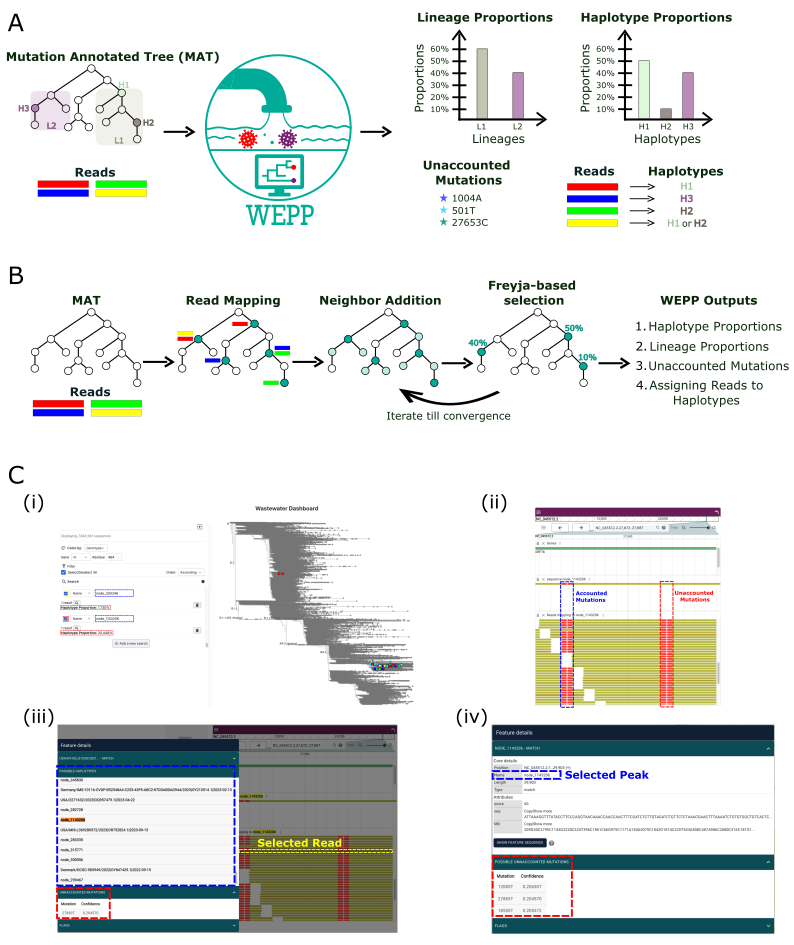
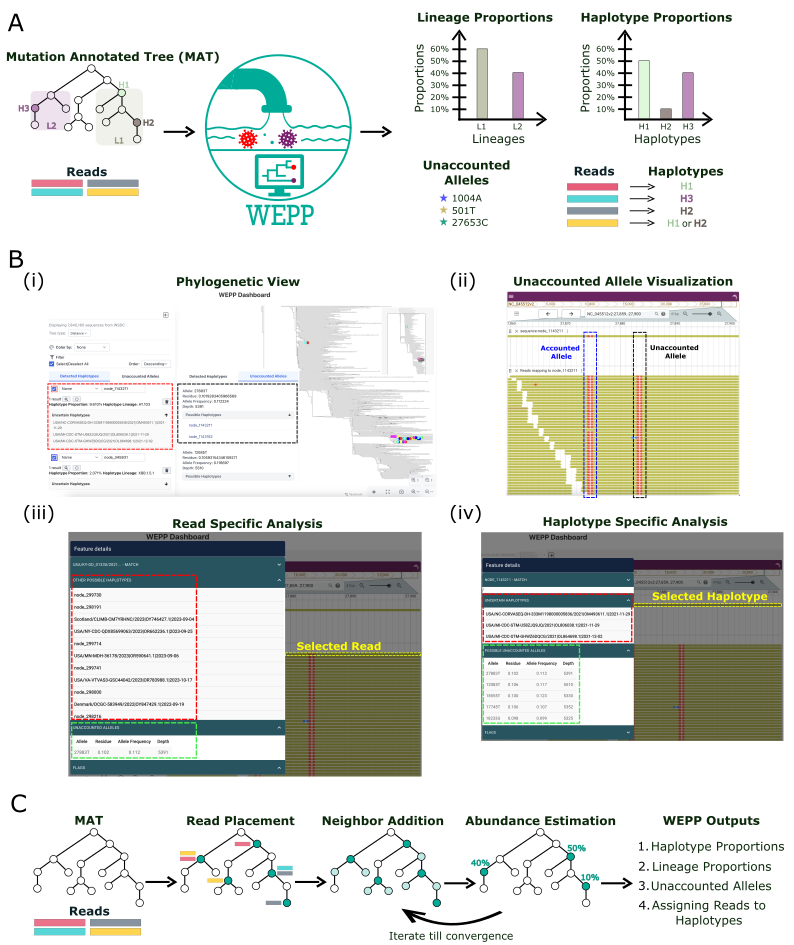
Updated Overview Image

diff --git a/docs/index.md b/docs/index.md
@@ -5,9 +5,9 @@
 
 ## <b>Introduction</b> 
 ### <b>Overview</b><a name="overview"></a>
-WEPP (**W**astewater-Based **E**pidemiology using **P**hylogenetic **P**lacements) is a phylogeny-based pipeline that estimates haplotype proportions from wastewater sequencing reads using a mutation-annotated tree (MAT) (Figure 1A). By improving the resolution of pathogen variant detection, WEPP enables critical epidemiological applications previously feasible only through clinical sequencing. It also flags potential novel variants via unaccounted mutations, which can be examined at the read level using the interactive dashboard (Figure 1C).
+WEPP (**W**astewater-Based **E**pidemiology using **P**hylogenetic **P**lacements) is a phylogeny-based pipeline that estimates haplotype proportions from wastewater sequencing reads using a mutation-annotated tree (MAT) (Figure 1A). By improving the resolution of pathogen variant detection, WEPP enables critical epidemiological applications previously feasible only through clinical sequencing. It also flags potential novel variants via *Unaccounted Mutations*, which can be examined at the read level using the interactive dashboard (Figure 1B).
 
-WEPP begins by placing reads on the mutation-annotated tree (MAT) and identifying an initial set of candidate haplotypes. It expands this set by including neighbors around each selected haplotype to form a candidate pool, which is passed to a deconvolution algorithm to estimate haplotype abundances. Haplotypes above a frequency threshold are retained, and their neighbors are again added to form a new pool. This process is repeated iteratively until the haplotype set stabilizes or the maximum number of iterations is reached (Figure 1B).
+WEPP begins by placing reads on the mutation-annotated tree (MAT) and identifying an initial set of candidate haplotypes. It expands this set by including neighbors around each selected haplotype to form a candidate pool, which is passed to a deconvolution algorithm to estimate haplotype abundances. Haplotypes above a frequency threshold are retained, and their neighbors are again added to form a new candidate pool. This process is repeated iteratively until the haplotype set stabilizes or the maximum number of iterations is reached (Figure 1C).
 
 
 <div align="center">
@@ -18,16 +18,16 @@ WEPP begins by placing reads on the mutation-annotated tree (MAT) and identifyin
 ### <b>Key Features</b>
 
 #### <b>Haplotype Proportion Estimation</b>  
-WEPP's *Phylogenetic Placement* of reads enables accurate estimation of haplotype proportions from wastewater samples. These estimates can be interactively explored using the integrated dashboard (Figure 1C(i)), which displays each haplotype’s abundance, associated lineage, and phylogenetic uncertainty via ***Uncertain Nodes*** - neighboring nodes that cannot be confidently disambiguated.
+WEPP's *Phylogenetic Placement* of reads enables accurate estimation of haplotype proportions from wastewater samples. These estimates can be interactively explored using the integrated dashboard (Figure 1B(i)), which displays each haplotype’s abundance, associated lineage, and phylogenetic uncertainty via *Uncertain Haplotypes* - neighboring haplotypes that cannot be confidently disambiguated.
 
 #### <b>Lineage Proportion Estimation</b>  
 WEPP infers lineage proportions by combining abundances of haplotypes belonging to each lineage. This approach accounts for intra-lineage diversity, resulting in more accurate and robust estimates.
 
 #### <b>Unccounted Alleles </b>
-WEPP reports a list of ***Unaccounted Alleles*** - alleles observed in wastewater that are not explained by the selected haplotypes, along with the inferred haplotype(s) they are most likely associated with (Figure 1C(ii)). These *Unaccounted Alleles* can serve as early indicators of novel variants and often resemble the 'cryptic' mutations described in previous studies.
+WEPP reports a list of *Unaccounted Alleles* - alleles observed in wastewater that are not explained by the selected haplotypes, along with the inferred haplotype(s) they are most likely associated with (Figure 1B(i)). These *Unaccounted Alleles* can serve as early indicators of novel variants and often resemble the 'cryptic' mutations described in previous studies.
 
 #### <b>Read-Level Analysis </b>
-WEPP supports detailed analysis of sequencing reads in the context of selected haplotypes (Figure 1C(iii)). It also facilitates interpretation of *Unaccounted Alleles* by examining their presence in reads relative to the haplotypes they are mapped to. Additional information about individual reads or haplotypes can be accessed by selecting them within the interactive panel (Figure 1C(iv)).
+WEPP supports detailed analysis of sequencing reads in the context of selected haplotypes (Figure 1B(ii)). It also facilitates interpretation of *Unaccounted Alleles* by examining their presence in reads relative to the haplotypes they are mapped to. Additional information about individual reads or haplotypes can be accessed by selecting them within the interactive panel (Figure 1B(iii) and Figure 1B(iv)).
  
 
 ## <b>Installation</b> <a name="install"></a>

diff --git a/README.md b/README.md
@@ -34,9 +34,9 @@
 
 ## <a name="intro"></a> Introduction
 
-WEPP (**W**astewater-Based **E**pidemiology using **P**hylogenetic **P**lacements) is a phylogeny-based pipeline that estimates haplotype proportions from wastewater sequencing reads using a mutation-annotated tree (MAT) (Figure 1A). By improving the resolution of pathogen variant detection, WEPP enables critical epidemiological applications previously feasible only through clinical sequencing. It also flags potential novel variants via unaccounted mutations, which can be examined at the read level using the interactive dashboard (Figure 1C).
+WEPP (**W**astewater-Based **E**pidemiology using **P**hylogenetic **P**lacements) is a phylogeny-based pipeline that estimates haplotype proportions from wastewater sequencing reads using a mutation-annotated tree (MAT) (Figure 1A). By improving the resolution of pathogen variant detection, WEPP enables critical epidemiological applications previously feasible only through clinical sequencing. It also flags potential novel variants via *Unaccounted Mutations*, which can be examined at the read level using the interactive dashboard (Figure 1B).
 
-WEPP begins by placing reads on the mutation-annotated tree (MAT) and identifying an initial set of candidate haplotypes. It expands this set by including neighbors around each selected haplotype to form a candidate pool, which is passed to a deconvolution algorithm to estimate haplotype abundances. Haplotypes above a frequency threshold are retained, and their neighbors are again added to form a new pool. This process is repeated iteratively until the haplotype set stabilizes or the maximum number of iterations is reached (Figure 1B).
+WEPP begins by placing reads on the mutation-annotated tree (MAT) and identifying an initial set of candidate haplotypes. It expands this set by including neighbors around each selected haplotype to form a candidate pool, which is passed to a deconvolution algorithm to estimate haplotype abundances. Haplotypes above a frequency threshold are retained, and their neighbors are again added to form a new candidate pool. This process is repeated iteratively until the haplotype set stabilizes or the maximum number of iterations is reached (Figure 1C).
 
 
 <div align="center">
